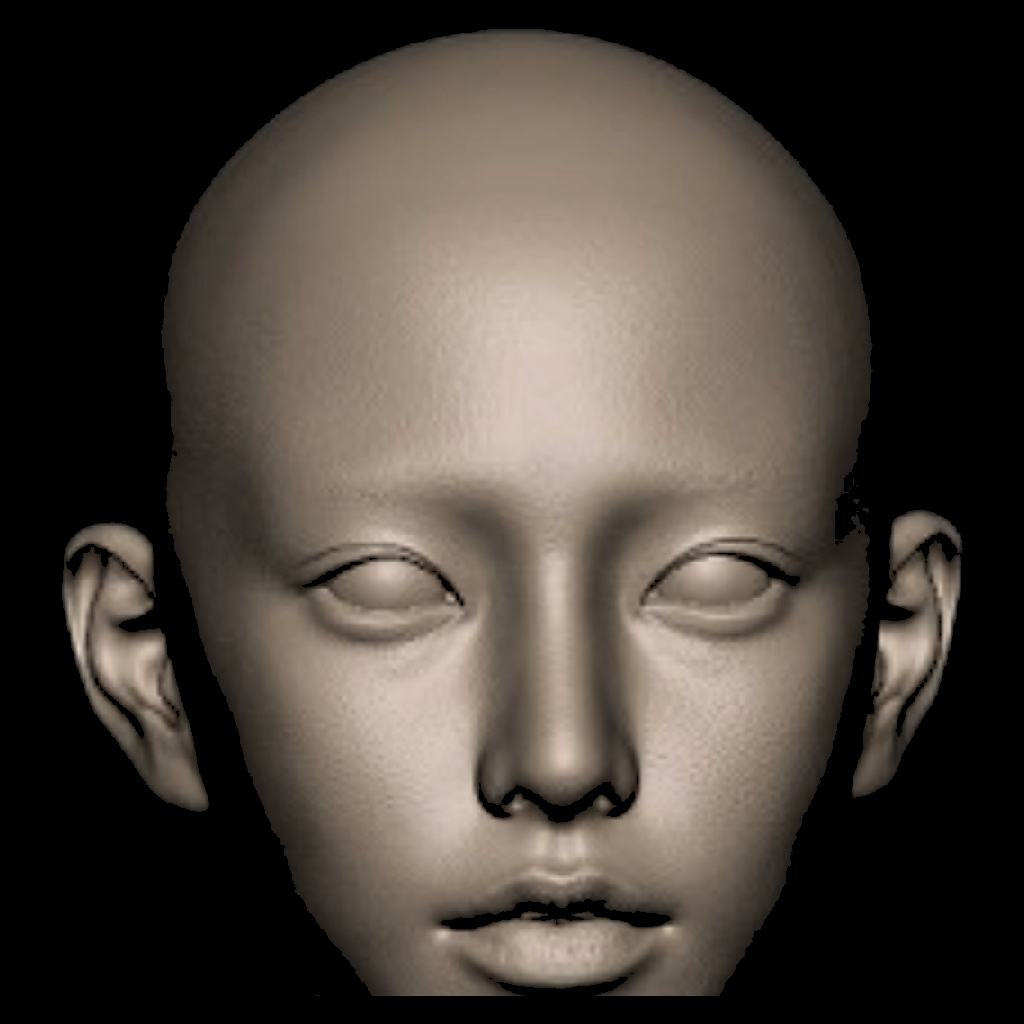
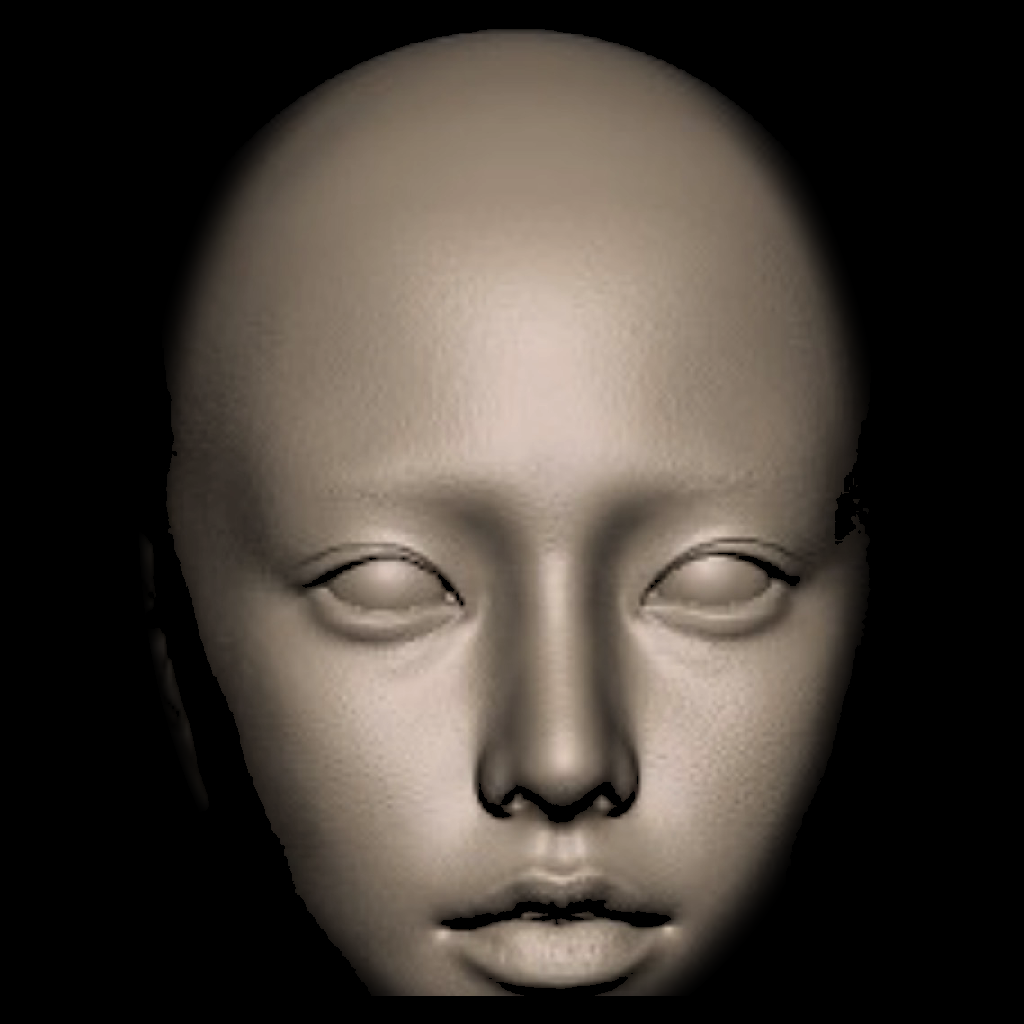
얼굴 파티클: 귀 제거 + 배경 그라디언트 강화 + 궤도 링·별점 추가
원본 스크린샷을 기준으로 세 가지를 맞췄다.

귀 제거
- 파티클로 그리면 귀가 두상 실루엣 밖으로 튀어나와 형태가 지저분했다.
  텍스처 생성 단계에서 세로로 긴 타원 밖을 부드럽게 잘라낸다(원본도 귀가
  드러나지 않는다). scripts/make-face-textures.mjs에 EAR_RX/EAR_RY 마스크 추가.

배경 그라디언트 강화
- 원본 배경을 그리드로 다시 측정한 결과, 가장 밝은 곳은 우측 상·중단
  (#29005e)이고 좌측은 중간(#1a002f), 아래로 갈수록 검정이었다.
  기존 구현은 좌측이 밝아 방향이 반대였다 — 측정값대로 뒤집고 강화했다.

원본 배경 요소 추가
- 점선 타원 궤도 3개(화면 밖까지 이어지는 SVG)
- 크기가 다른 두 격자를 겹친 미세한 별점 + 위/오른쪽에서 진해지는 마스크
- 얼굴 틴트를 조금 낮춰 배경과 대비가 과하지 않게 조정

원본 대비: 밝기분포 61,28,8,2,1(원본 69,29,1,0,0)로 두 번째 구간까지
일치, 평균색 rgb(62,8,120)(원본 rgb(51,4,96)), 배경 #1f023a(#1a0031)

검증(콘솔 에러 0): 얼굴 밝은픽셀 133,372·수명 순환 diff 32,618,
5문항 완주 후 결과 표시, 홈 flow 회귀 diff 6,082, 모바일 오버플로 없음·
auto-wander diff 5,515, 빌드 통과

diff --git a/apps/pioneer/pages/experience.vue b/apps/pioneer/pages/experience.vue
@@ -1,7 +1,14 @@
 <template>
   <!-- 얼굴 파티클 뒤에 깔리는 보라 그라디언트. 원본도 배경이 검정이 아니라
        은은한 보라라서, 이게 없으면 얼굴만 검은 공간에 떠 보인다 -->
-  <div class="aura-bg" aria-hidden="true" />
+  <div class="aura-bg" aria-hidden="true">
+    <!-- 원본 배경을 가로지르는 점선 타원 궤도 — 화면 밖까지 이어져 공간감을 준다 -->
+    <svg class="orbit-rings" viewBox="0 0 1000 700" preserveAspectRatio="xMidYMid slice">
+      <ellipse cx="500" cy="350" rx="486" ry="336" transform="rotate(-7 500 350)" />
+      <ellipse cx="520" cy="336" rx="392" ry="288" transform="rotate(9 520 336)" />
+      <ellipse cx="486" cy="360" rx="312" ry="352" transform="rotate(-16 486 360)" />
+    </svg>
+  </div>
   <main class="experience">
     <Transition :css="false" mode="out-in" @enter="onEnter" @leave="onLeave">
       <ExperienceIntro v-if="phase === 'intro'" key="intro" @start="start" />
@@ -106,13 +113,42 @@ function onLeave(el: Element, done: () => void) {
   inset: 0;
   z-index: -1; /* 캔버스(0)보다 뒤 — 투명한 캔버스를 통해 비쳐 보인다 */
   pointer-events: none;
-  /* 원본 영상 측정값: 좌상 #1a0031 · 우상 #1b003e · 좌하/우하 #000000.
-     위쪽에만 보라가 있고 아래로 갈수록 검정으로 떨어진다 */
+  /* 원본 영상 그리드 측정값 — 우측 상·중단이 가장 밝고(#29005e) 좌측은
+     중간(#1a002f), 아래로 갈수록 검정(#000000)으로 떨어진다 */
   background:
-    radial-gradient(64% 46% at 16% 6%, #2c0658 0%, rgba(26, 0, 49, 0.5) 44%, transparent 74%),
-    radial-gradient(56% 40% at 90% 14%, rgba(30, 0, 70, 0.68) 0%, transparent 72%),
-    linear-gradient(180deg, rgba(24, 2, 48, 0.5) 0%, rgba(10, 0, 20, 0.25) 45%, #000000 82%),
+    radial-gradient(78% 66% at 84% 26%, #46108c 0%, rgba(52, 4, 108, 0.82) 30%, rgba(33, 0, 74, 0.5) 56%, transparent 80%),
+    radial-gradient(62% 52% at 12% 12%, rgba(38, 2, 72, 0.85) 0%, rgba(26, 0, 47, 0.45) 48%, transparent 78%),
+    radial-gradient(120% 80% at 50% 4%, rgba(40, 4, 84, 0.55) 0%, transparent 62%),
+    linear-gradient(180deg, rgba(30, 2, 62, 0.6) 0%, rgba(12, 0, 26, 0.3) 46%, #000000 84%),
     #000000;
+}
+
+.orbit-rings {
+  position: absolute;
+  inset: -6%;
+  width: 112%;
+  height: 112%;
+  fill: none;
+  stroke: rgba(196, 150, 255, 0.34);
+  stroke-width: 1.1;
+  stroke-dasharray: 1 13;
+  stroke-linecap: round;
+  opacity: 0.75;
+}
+
+/* 원본 배경에 흩뿌려진 미세한 점 — 크기가 다른 두 격자를 겹쳐 규칙성을 감춘다 */
+.aura-bg::after {
+  content: '';
+  position: absolute;
+  inset: 0;
+  background-image:
+    radial-gradient(circle, rgba(214, 178, 255, 0.55) 0.6px, transparent 1.4px),
+    radial-gradient(circle, rgba(180, 130, 255, 0.4) 0.5px, transparent 1.2px);
+  background-size: 68px 68px, 113px 97px;
+  background-position: 0 0, 31px 17px;
+  /* 위쪽·오른쪽에서 진하고 아래로 사라지게 — 배경 그라디언트와 같은 흐름 */
+  -webkit-mask-image: radial-gradient(96% 78% at 62% 22%, #000 0%, rgba(0, 0, 0, 0.45) 52%, transparent 82%);
+  mask-image: radial-gradient(96% 78% at 62% 22%, #000 0%, rgba(0, 0, 0, 0.45) 52%, transparent 82%);
 }
 
 .experience {

diff --git a/apps/pioneer/webgl/faceParticleShaders.ts b/apps/pioneer/webgl/faceParticleShaders.ts
@@ -193,8 +193,8 @@ void main() {
   // 밝기를 팔레트 색에 실어 원본과 같은 진보라 톤을 만든다.
   // 원본 파티클 평균색은 rgb(51,4,96)로 매우 어둡다 — 개별 파티클을 어둡게 두고
   // additive로 겹친 곳만 밝아지게 해야 원본처럼 은은하게 깔린다
-  vec3 mono = lum * uMonoColor * 0.46;
-  vec3 color = mix(mono, faceColor * 0.46, uSpeechFactor);
+  vec3 mono = lum * uMonoColor * 0.38;
+  vec3 color = mix(mono, faceColor * 0.38, uSpeechFactor);
   color += uMonoColor * pow(1.0 - min(1.0, d * 2.0), 3.0) * 0.07;
   color += (vSeedY - 0.5) * 0.03;
 
